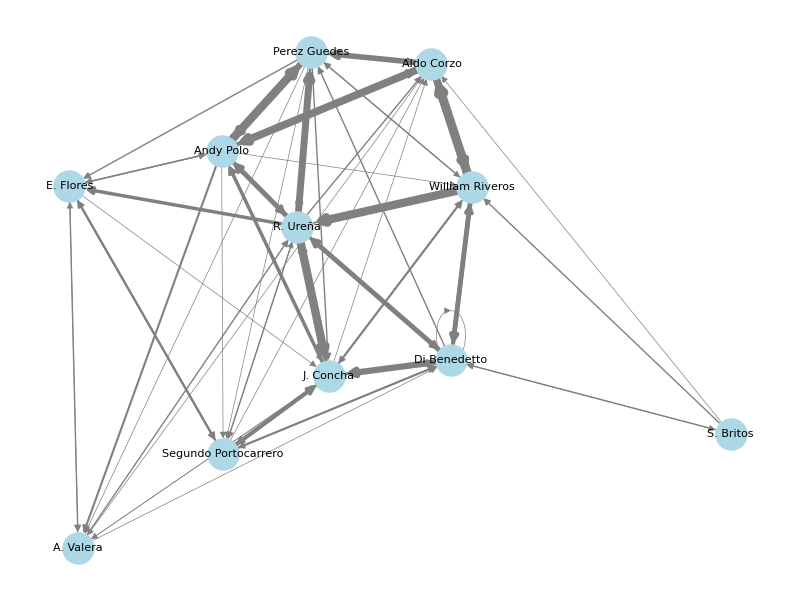
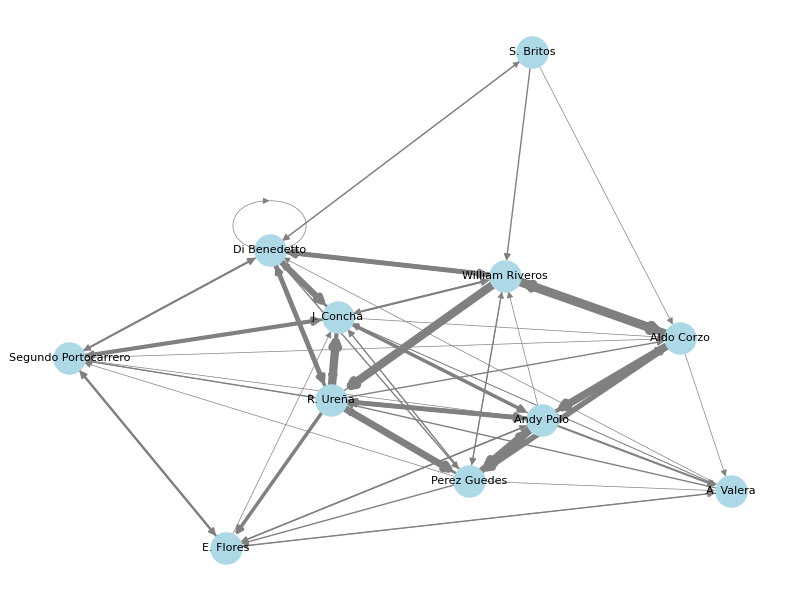
Tested Full Pipeline

diff --git a/whoscored-vizzes/main.py b/whoscored-vizzes/main.py
@@ -1099,21 +1099,21 @@ def main():
 
 
     # ------------------ Scrapping Function ---------------------
-    # home_team, away_team, df = scraping_whoscored(whoscored_url, mapping)
-    # df.to_csv('whoscored-vizzes/sample.csv', index=False)
+    home_team, away_team, df = scraping_whoscored(whoscored_url, mapping)
+    df.to_csv('whoscored-vizzes/sample.csv', index=False)
     # print(df.head())
-    df = pd.read_csv('whoscored-vizzes/sample.csv')
+    # df = pd.read_csv('whoscored-vizzes/sample.csv') # --
 
 
     # ------------------ Color Cust Function ---------------------
     # Getting colors list
-    # colors_u = get_team_colors(home_team, away_team)
-    colors_u = get_team_colors('Universitario de Deportes', 'Junior FC')
+    colors_u = get_team_colors(home_team, away_team)
+    # colors_u = get_team_colors('Universitario de Deportes', 'Junior FC') # --
 
 
     # ------------------ Extracting Score and Goal ---------------------
-    # goals_df = goal_generation(df, home_team, away_team)
-    goals_df = goal_generation(df, 'Universitario de Deportes', 'Junior FC')
+    goals_df = goal_generation(df, home_team, away_team)
+    # goals_df = goal_generation(df, 'Universitario de Deportes', 'Junior FC') # --
 
     # ------------------ Network Science Function ---------------------
     networkx_df = pass_network_networkx(df, list_of_teams)
@@ -1135,12 +1135,12 @@ def main():
     beaut_table_network(networkx_df, 'Clustering Coefficient', colors_u[0])
 
     # ------------------ Logos Generation ---------------------
-    # create_logo_figure(home_team, away_team, colors_u[0]) # This should work, commeting out for testing
-    create_logo_figure('Universitario de Deportes', 'Junior FC', colors_u[0])
+    create_logo_figure(home_team, away_team, colors_u[0]) # This should work, commeting out for testing
+    # create_logo_figure('Universitario de Deportes', 'Junior FC', colors_u[0]) # --
 
     # ------------------ Report Generation ---------------------
-    # report_generation(home_team, away_team, goals_df, colors_u[0]) # This should work, commeting out for testing
-    report_generation('Universitario de Deportes', 'Junior FC', goals_df, colors_u[0])
+    report_generation(home_team, away_team, goals_df, colors_u[0]) # This should work, commeting out for testing
+    # report_generation('Universitario de Deportes', 'Junior FC', goals_df, colors_u[0]) # --
 
 
 
